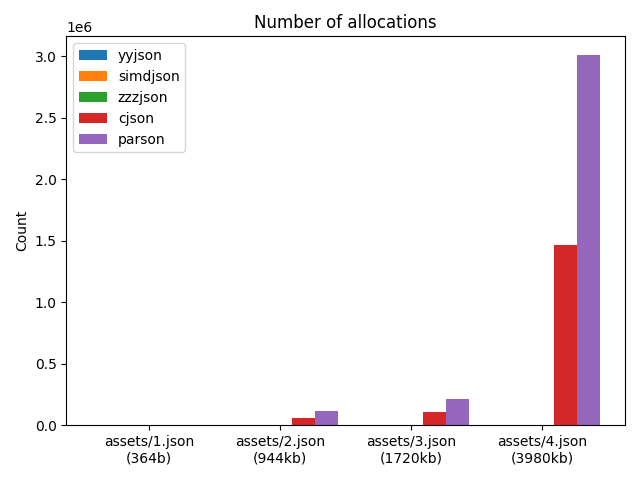
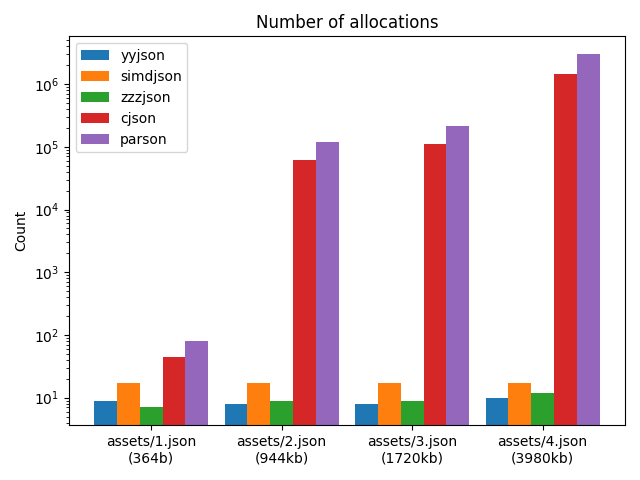
Updated to log scale for some images

diff --git a/run_tests.py b/run_tests.py
@@ -173,6 +173,7 @@ def print_reports():
     data = create_report('t_parse')
     data["title"] = "Parsing .json files"
     data["ylabel"] = "Time (s)"
+    data["yscale"] = "log"
     write_report('parse', data)
 
     data = create_report('t_traverse')
@@ -183,6 +184,7 @@ def print_reports():
     data = create_report('n_allocations')
     data["title"] = "Number of allocations"
     data["ylabel"] = "Count"
+    data["yscale"] = "log"
     write_report('allocations', data)
 
     data = create_report('n_memory')

diff --git a/render_bar_chart.py b/render_bar_chart.py
@@ -12,6 +12,7 @@ def parse_json(path):
 # {
 #     "title": "Parson .json files",
 #     "ylabel": "Time (s)",
+#     "yscale": "log", # linear if omitted
 #     "xlabels": [
 #         "1.json (364b)",
 #         "2.json (945kb)",
@@ -39,6 +40,8 @@ def render_bar_data(data, outpath):
     half_width = max_width * 0.5
 
     fig, ax = plt.subplots()
+
+    ax.set_yscale(data.get('yscale', 'linear'))
 
     for i in range(0, len(xvalues)//2):
         name = xvalues[i*2+0]
